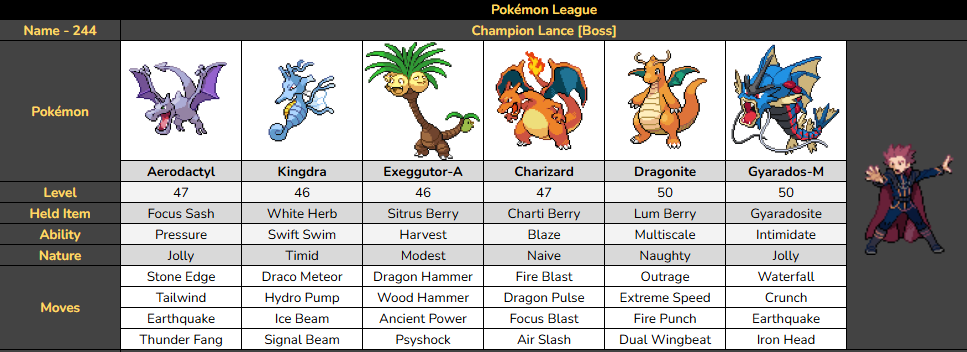
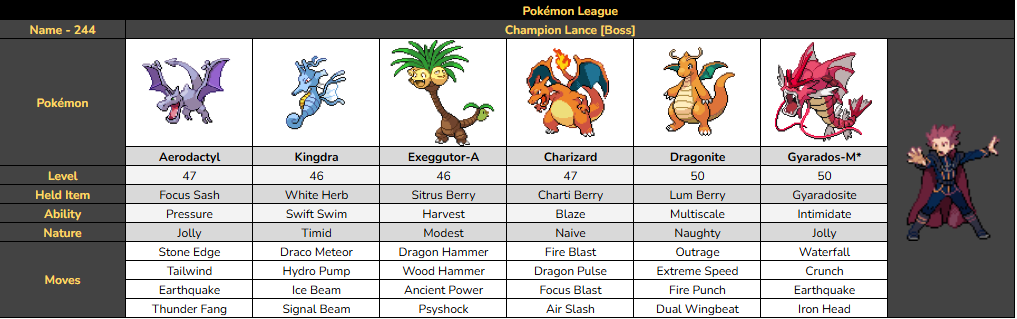
Added backups

diff --git a/config.py b/config.py
@@ -4,7 +4,13 @@ class Config:
     ROOT_DIR = "../hg-engine/"
 
     # hg-engine directories
-    OUTPUT_FILE = ROOT_DIR + "armips/data/trainers/trainers.s"
+    TRAINER_DIR = ROOT_DIR + "armips/data/trainers/"
+    OUTPUT_FILE = TRAINER_DIR + "trainers.s"
+
+    # If set to True, a copy of trainers.s will be created before priting the trainers
+    CREATE_BACKUP = True
+    BACKUP_FILE = TRAINER_DIR + "trainers_backup.s"
+
     INCLUDE_DIR = ROOT_DIR + "include/"
     CONSTANTS_DIR = INCLUDE_DIR + "constants/"
     ABILITY_HEADER = CONSTANTS_DIR + "ability.h"
@@ -17,16 +23,16 @@ class Config:
     
     # Trainer Configuration
 
-    # Default AI flags for Trainers if there is no "AI" row
+    # Default Trainer AI Flags
     DEFAULT_AI_FLAGS = ["F_PRIORITIZE_SUPER_EFFECTIVE", "F_EVALUATE_ATTACKS", "F_EXPERT_ATTACKS"]
 
-    # Default Trainer Items if there is no "Items" row
+    # Default Trainer Items
     DEFAULT_ITEMS = ["ITEM_NONE", "ITEM_NONE", "ITEM_NONE", "ITEM_NONE"]
 
 
     # Pokémon Configuration
 
-    # Default DV Value if there is no "DV" row (IVs are calculated using the formula IVs = DV / 255 * 31; IVs are 0 by default)
+    # Default DV Value if there is no "DV" row
     DEFAULT_DV = 255
 
     # Use custom IV/EV values instead of DV even if there are no "IV" or "EV" rows

diff --git a/export.py b/export.py
@@ -115,9 +115,9 @@ def print_data(data: List[TrainerData], output_file: str):
                 lines[start_idx:end_idx + 1] = new_block
             else:
                 lines.extend(["\n"] + new_block)
-            print(f"Inserted trainer : {trainer.name} with ID {trainer.id}\n")
+            print(f"Inserted trainer : {trainer.name} with ID {trainer.id}")
         except:
-            print(f"Invalid trainer : {trainer.name} with ID {trainer.id}\n")
+            print(f"Invalid trainer : {trainer.name} with ID {trainer.id}")
 
     with open(output_file, 'w', encoding='utf-8') as f:
         f.writelines(lines)

diff --git a/main.py b/main.py
@@ -2,9 +2,13 @@ from config import Config
 from csv_parser import list_csv_files, read_csv, parse_csv
 from export import print_data
 from validity_checker import init_defines
+from file_manager import create_backup
 
 def main():
     init_defines()
+
+    if Config.CREATE_BACKUP == True:
+        create_backup(Config.OUTPUT_FILE, Config.BACKUP_FILE)
 
     csv_files = list_csv_files(Config.INPUT_DIR)
 

diff --git a/file_manager.py b/file_manager.py
@@ -1,0 +1,10 @@
+from pathlib import Path
+
+def create_backup(original_path, backup_path):
+    original_file = Path(original_path)
+    backup_file = Path(backup_path)
+
+    with original_file.open('rb') as src, backup_file.open('wb') as dst:
+        dst.write(src.read())
+
+    print(f"Backup created at: {backup_file}")

diff --git a/README.md b/README.md
@@ -20,7 +20,7 @@ You should now have ```folder/hg-engine``` and ```folder/rnbstyle-hge-editor```
 
 3. Create a copy of the [Run and Bun-Style sample sheet](https://docs.google.com/spreadsheets/d/1QQ9A7cZD-ivIZ9QNOgbUV2toyaC7QJ42lxEYZk_odos/edit?usp=sharing) on your Google Drive account.
 
-4. Customize the trainers however you want following the [Editing Instructions](Instructions.md)
+4. Customize the trainers the way you want following the [Editing Instructions](Instructions.md)
 
 5. Once the modifications are done, download the Sheet you want as a .csv and place it in the [csv subfolder](csv) of rnbstyle-hge-editor.
 
@@ -70,3 +70,14 @@ Every contribution is welcome !
 * [Memory5ty7](https://github.com/Memory5ty7/)
 * [hg-engine](https://github.com/BluRosie/hg-engine/blob/main/CREDITS.md)
 * [dekzeh](https://x.com/dekzeh) : Pokémon Run and Bun
+* [Caruban](https://www.pokecommunity.com/members/caruban.726868/) : Compilation of Pokémon Sprites
+* **Gen 1-5 Pokemon Sprites** - veekun
+* **Gen 6 Pokemon Sprites** - All Contributors To Smogon X/Y Sprite Project
+* **Gen 7 Pokemon Sprites** - All Contributors To Smogon Sun/Moon Sprite Project
+* **Gen 8 Pokemon Sprites** - All Contributors To Smogon Sword/Shield Sprite Project
+* **PLA Pokemon Sprites** - Smogon Sprite Project
+Blaquaza, KingOfThe-X-Roads, KattenK, Travis, G.E.Z., SpheX, Hematite, SelenaArmorclaw
+* **Gen 9 Pokemon Sprites** - KingOfThe-X-Roads, Mak, Caruban, jinxed, leParagon, Sopita_Yorita, Azria, Mashirosakura,
+JordanosArt, Abnayami, OldSoulja, Katten, Divaruta 666, Clara, Skyflyer, AshnixsLaw, ace_stryfe
+* **Gen 9 Vanilla style sprites** - KingOfThe-X-Roads, Mak, Caruban, jinxed, leParagon, Sopita_Yorita, Azria, Mashirosakura, JordanosArt, Scept, NanaelJustice, SoyChim, KRLW890, AnonAlpaca, PokeJminer, Red7246, Carmanekko, Eduar, Lykeron, GriloKapu10, Mesayas, Erkey830, QDylm, PorousMist, OldSoulja, AlexandreV2.0, Z-nogyroP, lennybitao, Ruben1986, GRAFAIAIMX
+Blaquaza, KattenK, Travis, G.E.Z., SpheX, Hematite
